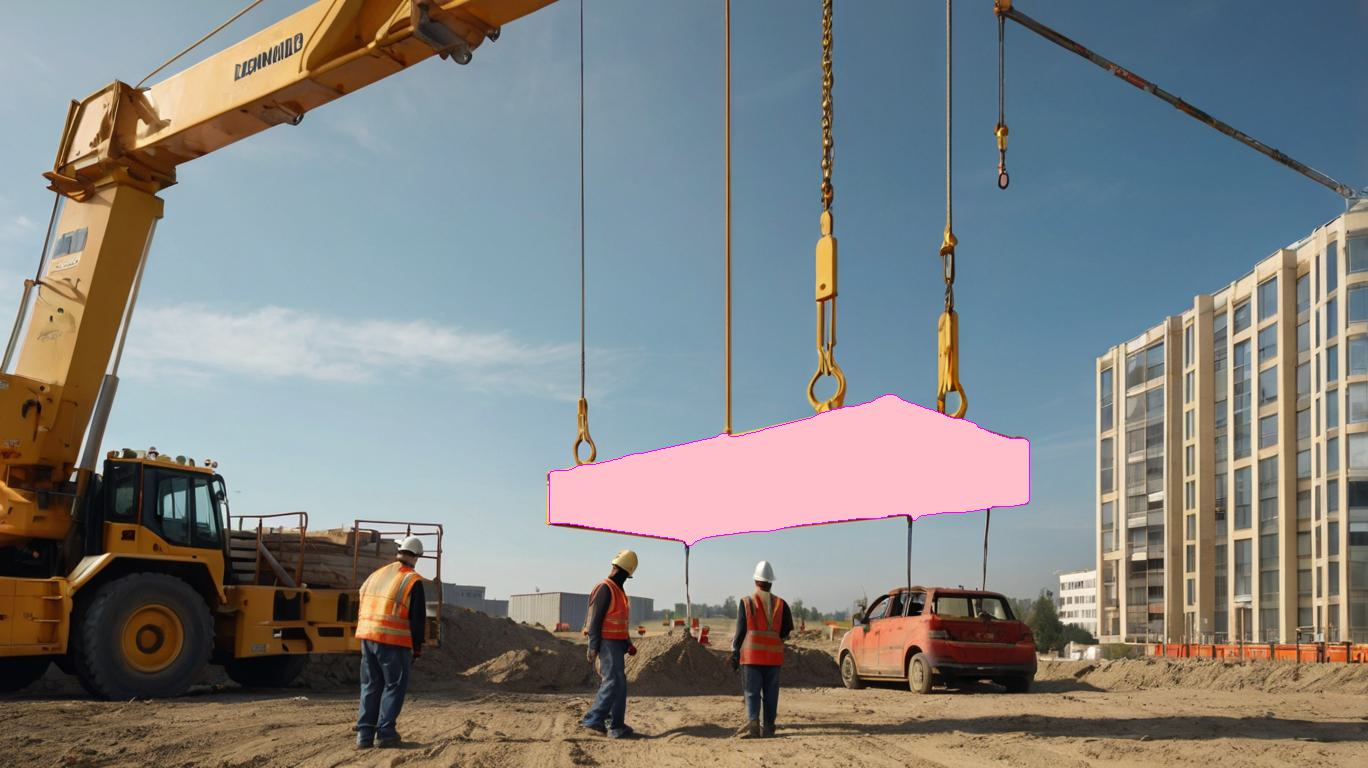
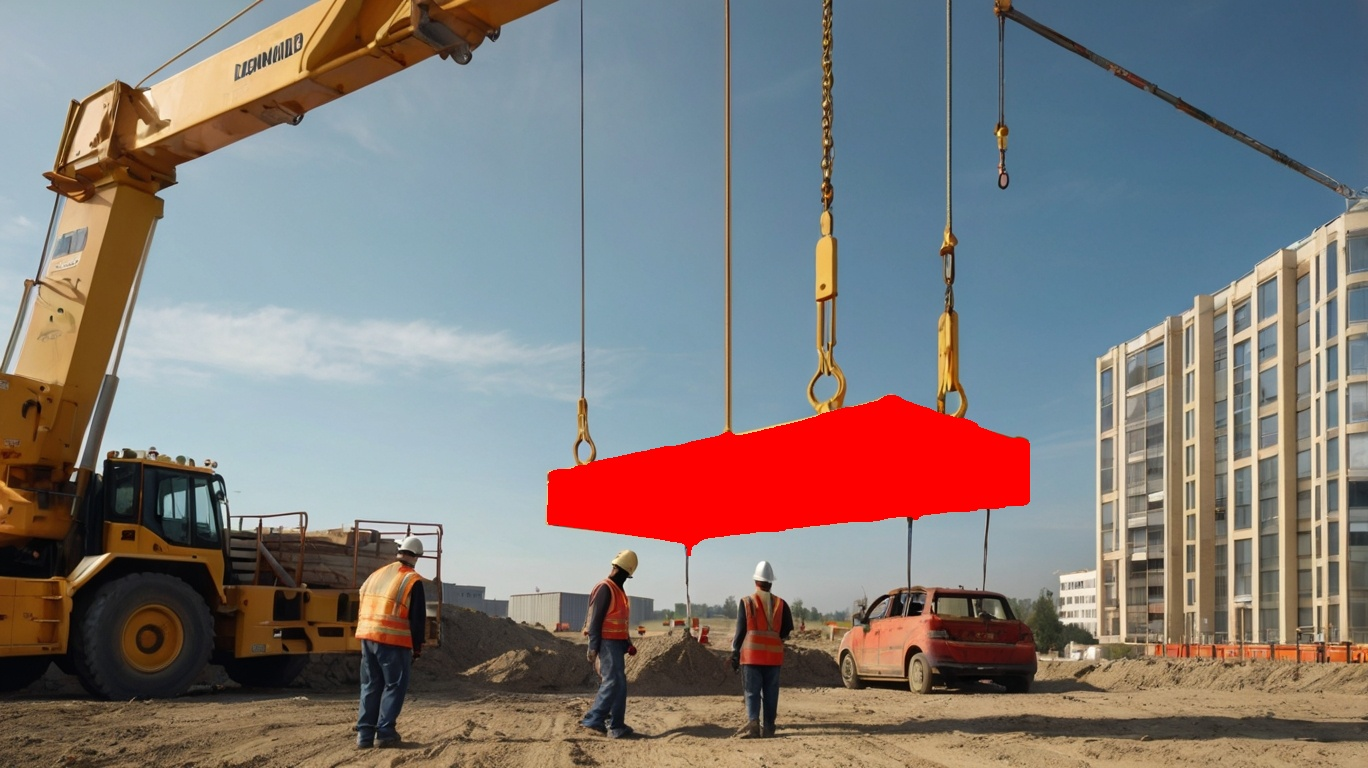
implemented the main pipe line

Changed region(s): [[0.3991, 0.5, 0.7675, 0.7188]]

diff --git a/main.py b/main.py
@@ -1,0 +1,140 @@
+import cv2
+import torch
+import numpy as np
+from depth_anything_v2.dpt import DepthAnythingV2
+from transformers import AutoProcessor, AutoModelForCausalLM
+from PIL import Image
+import copy
+from ultralytics import YOLO
+import random
+import os
+from test_florence2 import run_example, draw_florence_polygons
+import math
+from utils import *
+from glob import glob
+
+FIELD_OF_VIEW = 87
+
+device = torch.device('cuda' if torch.cuda.is_available() else 'cpu')
+image_paths = glob('assets/images/*')
+mask_paths = set(glob('assets/ground/*'))
+
+# Load the image
+for image_path in image_paths:
+    image_name = os.path.basename(image_path).split('.')[0]
+    if f'assets/ground/{image_name}.png' not in mask_paths:
+        continue
+    
+    image = cv2.imread(image_path)
+    rgb_image = cv2.cvtColor(image, cv2.COLOR_BGR2RGB)
+    show_image = cv2.cvtColor(image, cv2.COLOR_BGR2RGB)
+
+    # Ground Mask
+    ground_image = cv2.imread(f'assets/ground/{image_name}.png')
+    ground_mask = ground_image[:, :, 0] > 0
+    show_image[ground_mask] = (255, 255, 255)
+
+
+    # DepthAnythingV2
+    model_configs = {
+        'vitl': {'encoder': 'vitl', 'features': 256, 'out_channels': [256, 512, 1024, 1024]},
+        'vitb': {'encoder': 'vitb', 'features': 128, 'out_channels': [96, 192, 384, 768]},
+        'vits': {'encoder': 'vits', 'features': 64, 'out_channels': [48, 96, 192, 384]}
+    }
+
+    encoder = 'vits' # or 'vitb', 'vitl'
+
+    model_path = f"checkpoints/depth_anything_v2_{encoder}.pth"
+    model = DepthAnythingV2(**model_configs[encoder])
+    model.load_state_dict(torch.load(model_path, map_location='cpu'))
+    model.eval()
+    model.to(device)
+
+    depth = model.infer_image(image) # HxW raw depth map
+    depth = 1 / depth
+    recognizable_pixels = np.expand_dims(depth < 1, axis=-1)
+    f = depth.shape[1] / (2 * math.tan(math.radians(FIELD_OF_VIEW / 2)))
+    XYZ = Z_to_XYZ(depth, f=f, w=depth.shape[1], h=depth.shape[0])
+
+    # YOLO
+    model = YOLO("checkpoints/yolov8n-seg.pt")  # load an official model
+    model.to(device)
+    classes_ids = [0]
+    conf = 0.5
+    results = model.predict(image, conf=conf)
+    person_contours = []
+    person_color = (0, 255, 0)
+    person_mask = np.zeros((image.shape[0], image.shape[1]), dtype=np.uint8)
+    for result in results:
+        if result.masks is None:
+            continue
+        for mask, box in zip(result.masks.xy, result.boxes):
+            if int(box.cls[0]) not in classes_ids:
+                continue
+            points = np.int32([mask])
+            cv2.fillPoly(person_mask, points, 255)
+            person_contours.append(points)
+
+    person_mask = cv2.erode(person_mask, np.ones((3, 3), np.uint8), iterations=1)
+    person_mask = person_mask.astype(bool)
+    show_image[person_mask] = person_color
+
+
+    # now we have ground mask, person mask, and load mask
+    ground_XYZ = XYZ[ground_mask]
+    if len(ground_XYZ) > 5000:
+        ground_XYZ = ground_XYZ[np.random.choice(len(ground_XYZ), 5000, replace=False)]
+    plane = fit_plane_to_points(ground_XYZ)
+    print(plane)
+
+    person_XYZ = XYZ[person_mask]
+    projected_person_XYZ = project_points_to_plane(person_XYZ, plane)
+    projected_person_xy = XYZ_to_xy(projected_person_XYZ, f=f, w=depth.shape[1], h=depth.shape[0])
+    projected_person_color = (136, 8, 8)
+    projected_person_mask = np.zeros((image.shape[0], image.shape[1]), dtype=np.uint8)
+    for xy in projected_person_xy:
+        x, y = xy
+        if 0 <= x < depth.shape[1] and 0 <= y < depth.shape[0]:
+            projected_person_mask[y, x] = 255
+
+    projected_person_mask = cv2.erode(projected_person_mask, np.ones((3, 3), np.uint8), iterations=1)
+    projected_person_mask = projected_person_mask.astype(bool)
+
+
+
+    # Florence 2
+    model_id = 'microsoft/Florence-2-large'
+    model = AutoModelForCausalLM.from_pretrained(model_id, trust_remote_code=True).eval().cuda()
+    processor = AutoProcessor.from_pretrained(model_id, trust_remote_code=True)
+
+    task_prompt = '<REFERRING_EXPRESSION_SEGMENTATION>'
+    text_input = 'A suspended load'
+    results = run_example(model, processor, task_prompt, rgb_image, text_input=text_input)
+    results = results['<REFERRING_EXPRESSION_SEGMENTATION>']
+    load_mask = draw_florence_polygons(show_image, results, fill_color=(255, 0, 0))
+
+    load_XYZ = XYZ[load_mask]
+    projected_load_XYZ = project_points_to_plane(load_XYZ, plane)
+    projected_load_xy = XYZ_to_xy(projected_load_XYZ, f=f, w=depth.shape[1], h=depth.shape[0])
+    projected_load_color = (255, 0, 0)
+    projected_load_mask = np.zeros((image.shape[0], image.shape[1]), dtype=np.uint8)
+    for xy in projected_load_xy:
+        x, y = xy
+        if 0 <= x < depth.shape[1] and 0 <= y < depth.shape[0]:
+            projected_load_mask[y, x] = 255
+
+
+    projected_load_mask = cv2.erode(projected_load_mask, np.ones((3, 3), np.uint8), iterations=1)
+    projected_load_mask = projected_load_mask.astype(bool)
+    projected_load_xy = np.array(np.where(projected_load_mask)).T[:, ::-1]
+    hull = cv2.convexHull(projected_load_xy)
+    cv2.polylines(show_image, [hull], isClosed=True, color=(0, 255, 0), thickness=2)
+    # convex hull around projected load and not the contours
+    # outline the polygon on show_image
+
+    show_image[projected_person_mask] = projected_person_color
+
+    cv2.imshow('image', cv2.cvtColor(show_image, cv2.COLOR_BGR2RGB))
+    cv2.waitKey(0)
+    cv2.destroyAllWindows()
+    cv2.imwrite(f'assets/outputs/{image_name}.png', cv2.cvtColor(show_image, cv2.COLOR_RGB2BGR))

diff --git a/test_florence2.py b/test_florence2.py
@@ -2,13 +2,12 @@ from transformers import AutoProcessor, AutoModelForCausalLM
 from PIL import Image
 import requests
 from glob import glob
+import cv2
 import copy
 
-model_id = 'microsoft/Florence-2-large'
-model = AutoModelForCausalLM.from_pretrained(model_id, trust_remote_code=True).eval().cuda()
-processor = AutoProcessor.from_pretrained(model_id, trust_remote_code=True)
 
-def run_example(task_prompt, image, text_input=None):
+
+def run_example(model, processor, task_prompt, image, text_input=None):
     if text_input is None:
         prompt = task_prompt
     else:
@@ -26,72 +25,45 @@ def run_example(task_prompt, image, text_input=None):
     parsed_answer = processor.post_process_generation(
         generated_text,
         task=task_prompt,
-        image_size=(image.width, image.height)
+        image_size=(image.shape[1], image.shape[0])
     )
 
     return parsed_answer
 
-from PIL import Image, ImageDraw, ImageFont
 import random
 import numpy as np
 colormap = ['blue','orange','green','purple','brown','pink','gray','olive','cyan','red',
             'lime','indigo','violet','aqua','magenta','coral','gold','tan','skyblue']
-def draw_polygons(image, prediction, fill_mask=False):
-    """
-    Draws segmentation masks with polygons on an image.
-
-    Parameters:
-    - image_path: Path to the image file.
-    - prediction: Dictionary containing 'polygons' and 'labels' keys.
-                  'polygons' is a list of lists, each containing vertices of a polygon.
-                  'labels' is a list of labels corresponding to each polygon.
-    - fill_mask: Boolean indicating whether to fill the polygons with color.
-    """
-    # Load the image
-
-    draw = ImageDraw.Draw(image)
-
-
-    # Set up scale factor if needed (use 1 if not scaling)
-    scale = 1
+def draw_florence_polygons(image, prediction, fill_color=(255, 0, 0)):
+    mask = np.zeros(image.shape[:2], dtype=np.uint8)
 
     # Iterate over polygons and labels
-    for polygons, label in zip(prediction['polygons'], prediction['labels']):
-        color = random.choice(colormap)
-        fill_color = random.choice(colormap) if fill_mask else None
-
+    for polygons in prediction['polygons']:
         for _polygon in polygons:
             _polygon = np.array(_polygon).reshape(-1, 2)
             if len(_polygon) < 3:
                 print('Invalid polygon:', _polygon)
                 continue
 
-            _polygon = (_polygon * scale).reshape(-1).tolist()
-
-            # Draw the polygon
-            if fill_mask:
-                draw.polygon(_polygon, outline=color, fill=fill_color)
-            else:
-                draw.polygon(_polygon, outline=color)
-
-            # Draw the label text
-            draw.text((_polygon[0] + 8, _polygon[1] + 2), label, fill=color)
-
-    # Save or display the image
-    # image.show()  # Display the image
-    # save the image in output folder
-    # return image
+            _polygon = _polygon.reshape(-1, 2)
+            cv2.fillPoly(mask, [np.int32(_polygon)], 255)
+    cv2.erode(mask, np.ones((9, 9), np.uint8), iterations=1)
+    mask = mask.astype(bool)
+    image[mask] = fill_color
+    return mask
 
 
-task_prompt = '<REFERRING_EXPRESSION_SEGMENTATION>'
-text_input = 'A suspended load'
-image_paths = glob('assets/images/*')
-output_dir = 'assets/loads'
-for image_path in image_paths[2:]:
-    print(image_path)
-    image = Image.open(image_path)
-    image = image.convert('RGB')
-    results = run_example(task_prompt, image, text_input=text_input)
-    output_image = copy.deepcopy(image)
-    draw_polygons(output_image, results['<REFERRING_EXPRESSION_SEGMENTATION>'], fill_mask=True)
-    output_image.save(f'{output_dir}/' + image_path.split('/')[-1])
+if __name__ == '__main__':
+    model_id = 'microsoft/Florence-2-large'
+    model = AutoModelForCausalLM.from_pretrained(model_id, trust_remote_code=True).eval().cuda()
+    processor = AutoProcessor.from_pretrained(model_id, trust_remote_code=True)
+    task_prompt = '<REFERRING_EXPRESSION_SEGMENTATION>'
+    text_input = 'A suspended load'
+    image_paths = glob('assets/images/*')
+    output_dir = 'assets/loads'
+    for image_path in image_paths:
+        print(image_path)
+        image = cv2.cvtColor(cv2.imread(image_path), cv2.COLOR_BGR2RGB)
+        results = run_example(model, processor, task_prompt, image, text_input=text_input)
+        draw_florence_polygons(image, results['<REFERRING_EXPRESSION_SEGMENTATION>'])
+        cv2.imwrite(f'{output_dir}/' + image_path.split('/')[-1], cv2.cvtColor(image, cv2.COLOR_RGB2BGR))

diff --git a/test_all3.py b/test_all3.py
@@ -1,0 +1,80 @@
+import cv2
+import torch
+import numpy as np
+from depth_anything_v2.dpt import DepthAnythingV2
+from transformers import AutoProcessor, AutoModelForCausalLM
+from PIL import Image
+import copy
+from ultralytics import YOLO
+import random
+import os
+from test_florence2 import run_example, draw_florence_polygons
+
+device = torch.device('cuda' if torch.cuda.is_available() else 'cpu')
+
+# Load the image
+image_path = 'assets/images/Default_A_small_crane_holding_a_suspended_load_above_the_groun_3.jpg'
+image = cv2.imread(image_path)
+rgb_image = cv2.cvtColor(image, cv2.COLOR_BGR2RGB)
+show_image = cv2.cvtColor(image, cv2.COLOR_BGR2RGB)
+
+# Ground Mask
+image_name = os.path.basename(image_path).split('.')[0]
+ground_image = cv2.imread(f'assets/ground/{image_name}.png')
+ground_mask = ground_image[:, :, 0] > 0
+show_image[ground_mask] = (255, 255, 255)
+
+
+# DepthAnythingV2
+model_configs = {
+    'vitl': {'encoder': 'vitl', 'features': 256, 'out_channels': [256, 512, 1024, 1024]},
+    'vitb': {'encoder': 'vitb', 'features': 128, 'out_channels': [96, 192, 384, 768]},
+    'vits': {'encoder': 'vits', 'features': 64, 'out_channels': [48, 96, 192, 384]}
+}
+
+encoder = 'vits' # or 'vitb', 'vitl'
+
+model_path = f"checkpoints/depth_anything_v2_{encoder}.pth"
+model = DepthAnythingV2(**model_configs[encoder])
+model.load_state_dict(torch.load(model_path, map_location='cpu'))
+model.eval()
+model.to(device)
+
+depth = model.infer_image(image) # HxW raw depth map
+
+# YOLO
+model = YOLO("checkpoints/yolov8n-seg.pt")  # load an official model
+model.to(device)
+classes_ids = [0]
+conf = 0.5
+results = model.predict(image, conf=conf)
+person_contours = []
+person_color = (0, 255, 0)
+person_mask = np.zeros((image.shape[0], image.shape[1]), dtype=np.uint8)
+for result in results:
+    if result.masks is None:
+        continue
+    for mask, box in zip(result.masks.xy, result.boxes):
+        if int(box.cls[0]) not in classes_ids:
+            continue
+        points = np.int32([mask])
+        cv2.fillPoly(person_mask, points, 255)
+        person_contours.append(points)
+
+person_mask = cv2.erode(person_mask, np.ones((5, 5), np.uint8), iterations=1)
+person_mask = person_mask.astype(bool)
+show_image[person_mask] = person_color
+
+# Florence 2
+model_id = 'microsoft/Florence-2-large'
+model = AutoModelForCausalLM.from_pretrained(model_id, trust_remote_code=True).eval().cuda()
+processor = AutoProcessor.from_pretrained(model_id, trust_remote_code=True)
+
+task_prompt = '<REFERRING_EXPRESSION_SEGMENTATION>'
+text_input = 'A suspended load'
+results = run_example(model, processor, task_prompt, rgb_image, text_input=text_input)
+results = results['<REFERRING_EXPRESSION_SEGMENTATION>']
+load_mask = draw_florence_polygons(show_image, results, fill_color=(255, 0, 0))
+
+# now we have ground mask, person mask, and load mask
+

diff --git a/test_yolo8_person.py b/test_yolo8_person.py
@@ -4,9 +4,10 @@ import cv2
 import numpy as np
 from glob import glob
 # Load a model
-model = YOLO("yolov8n-seg.pt")  # load an official model
+model = YOLO("checkpoints/yolov8n-seg.pt")  # load an official model
 # We want only the person class
 classes_ids = [0]
+color = (0, 255, 0)
 
 conf = 0.5
 
@@ -18,7 +19,7 @@ for image_path in image_paths:
     img = cv2.imread(image_path)  # predict on an image
 
     results = model.predict(img, conf=conf)
-    colors = [random.choices(range(256), k=3) for _ in classes_ids]
+    img = cv2.cvtColor(img, cv2.COLOR_BGR2RGB)
     print(f'{results=}')
     for result in results:
         if result.masks is None:
@@ -27,8 +28,7 @@ for image_path in image_paths:
             if int(box.cls[0]) not in classes_ids:
                 continue
             points = np.int32([mask])
-            # cv2.polylines(img, points, True, (255, 0, 0), 1)
             color_number = classes_ids.index(int(box.cls[0]))
-            cv2.fillPoly(img, points, colors[color_number])
+            cv2.fillPoly(img, points, color)
 
-    cv2.imwrite(output_dir + image_path.split('/')[-1], img)
+    cv2.imwrite(f'{output_dir}/' + image_path.split('/')[-1], cv2.cvtColor(img, cv2.COLOR_RGB2BGR))

diff --git a/utils.py b/utils.py
@@ -1,6 +1,6 @@
 import numpy as np
 
-def Z_to_XYZ(Z, f, w, h): # Z: (b, h, w) -> XYZ: (b, h, w, 3)
+def Z_to_XYZ(Z, f, w, h): # Z: (h, w) -> XYZ: (h, w, 3)
     y, x = np.mgrid[0:h, 0:w] - np.array([h/2-0.5, w/2-0.5]).reshape(2, 1, 1)
     X = x * Z / f
     Y = y * Z / f
@@ -10,7 +10,7 @@ def XYZ_to_xy(XYZ, f, w, h) -> np.ndarray: # XYZ: (..., 3) -> xy: (..., 2)
     x = XYZ[..., 0] * f / XYZ[..., 2] # (...)
     y = XYZ[..., 1] * f / XYZ[..., 2] # (...)
     x = x + w//2
-    y = h//2 - y
+    y = h//2 + y
     return np.stack([x, y], axis=-1).astype(np.int32)
 
 def fit_plane_to_points(points):
@@ -23,7 +23,8 @@ def fit_plane_to_points(points):
     # every point on the plane can be represented as centroid + t * V[2] + s * V[1]
     return V[0], V[1], centroid
 
-def project_points_to_plane(points, V, U, centroid):
+def project_points_to_plane(points, plane):
+    V, U, centroid = plane
     shape = points.shape
     points = np.reshape(points, (-1, 3))
     t = np.sum((points - centroid) * V, axis=-1) / np.sum(V * V)
